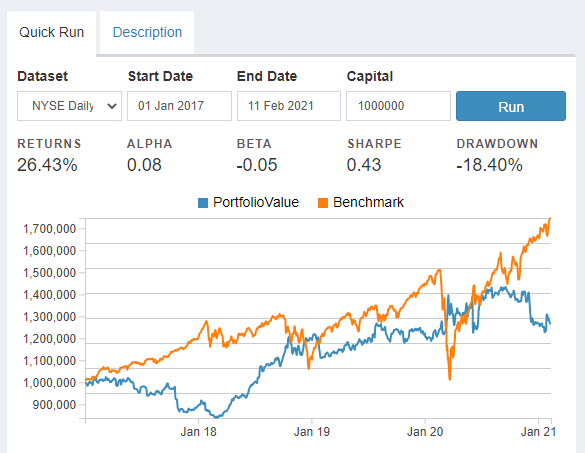
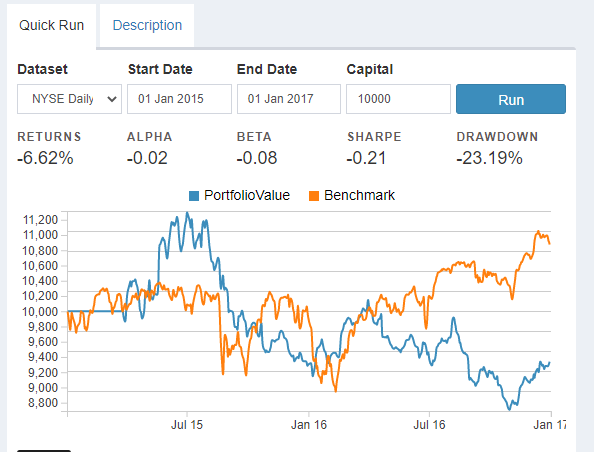
Added a readme explaining the test.

Changed region(s): [[0.0308, 0.031, 0.9846, 0.9602], [0.0308, 0.031, 0.1538, 0.0929], [0.0308, 0.9912, 0.1231, 1.0]]

diff --git a/zscore_mavg_diff/README.md b/zscore_mavg_diff/README.md
@@ -1,0 +1,170 @@
+# Z-score based trading strategy
+
+*Note: The notebook used in this project contains the script used for backtesting. This is meant for reference as in the current state, the notebook is not setup to use the dependancies.*
+
+## Introduction
+It seems likely that two ETF's in the same market offering the same service should have a correlation of market prices.  For this example, I have selected American Airlines (AAL) and United Airlines (UAL) to be compared. Can we watch one of these ETF's change in value and capitalize on their correlated counterpart?
+
+
+### Hypothesis
+1. Are these two assets correlated
+2. If correlated to a reasonable level, can we assume a trend in one asset based on recent changes in price of the other?
+
+## Testing
+
+I have decided to use data from years passed to avoid any current day bias that may be found in these ETF's.  This will also allow a check on the data from other peoples examples.  The time frame selected is January 1st, 2015 - January 1st, 2017.  Data was gathered from Yahoo Finance's historical prices for both assets.
+
+### 1. Finding Correlation
+
+After cleaning up the data (AAL had an additional row to UAL - Last row dropped), we see a correlation of 91.26%. A higher correlation would be ideal, however for testing purposes, this will suffice.
+```py
+np.corrcoef(american['High'], united['High'])
+
+"""
+RESULTS
+
+array([[1.        , 0.91261514],
+       [0.91261514, 1.        ]])
+"""
+```
+
+![AAL & UAL 2015-2017](https://github.com/StevenSigil/testing_finances/blob/main/zscore_mavg_diff/charts/correlation_checking_AAL_UAL.png)
+
+### 2. Finding the spread differential
+The diffential here is the main determinate of what action to take. When the result (after normalizing via a zscore) is > 1 standard deviation, we are to sell AAL. Same goes for the reverse.
+
+```py
+# Spread differential
+
+spread = american['Price'] - united['Price']
+spread.plot(label='Spread', figsize=(12,8), title='Spread Difference - AAL vs UAL')
+plt.axhline(spread.mean(), c='g', label='average')
+plt.legend()
+```
+
+![AAL & UAL Spread Differential plot](https://github.com/StevenSigil/testing_finances/blob/main/zscore_mavg_diff/charts/spread_difference_AAL_UAL.png)
+
+### 3. Calculating a rolling Z-score and finding the standard deviation
+
+Since the intent is to test the theory on data, as if it were live, it is necessary to use a rolling score to interpret the data as if it were live and unknown.
+
+```py
+# Calculating a rolling zscore
+
+spread_ma1 = spread.rolling(1).mean()
+spread_ma30 = spread.rolling(30).mean()
+std_30 = spread.rolling(30).std()
+
+zscore_30_1 = (spread_ma1 - spread_ma30) / std_30
+
+"""
+RESULT
+
+Date
+2015-01-02         NaN
+2015-01-05         NaN
+2015-01-06         NaN
+2015-01-07         NaN
+2015-01-08         NaN
+                ...   
+2016-12-23   -1.176253
+2016-12-27   -1.086287
+2016-12-28   -0.954296
+2016-12-29   -0.994798
+2016-12-30   -1.043309
+Name: Price, Length: 505, dtype: float64
+"""
+```
+
+Plotting the results to check the +/- 1std is sufficient
+
+![Spread difference after calculating a rolling score](https://github.com/StevenSigil/testing_finances/blob/main/zscore_mavg_diff/charts/rolling_30d_zscore.png)
+
+## 4. Backtest data to prove/disprove original hypothesis
+
+To test the theory, I decided to use [Blueshift](https://blueshift.quantinsti.com/) - the supposed replacement for Quantopian's public platform.  Like Quantopian, they use the [zipline](https://www.zipline.io/) package (some of the package) to perform analysis/backtesting.
+
+Below is the script I came up with to test the theory. It follows the same basic setup as the above data analysis before defining the trading logic.
+
+```py
+"""
+Strategy based on the 30D rolling ZScore
+"""
+
+# Zipline
+from zipline.api import(    symbol,
+                            order_target_percent,
+                            schedule_function,
+                            date_rules,
+                            time_rules,
+                       )
+import numpy as np
+import pandas as pd
+
+
+# Initialize - Schedule funciton 
+def initialize(context):
+    schedule_function(check_pairs, date_rules.every_day(), time_rules.market_close(minutes=60))
+
+    context.aal = symbol('AAL')
+    context.ual = symbol('UAL')
+
+    context.long_on_spread = False
+    context.shorting_spread = False
+
+# Check pairs
+def check_pairs(context, data):
+
+    aal = context.aal
+    ual = context.ual
+
+    prices = data.history([aal, ual], 'price', 30, '1d')
+    short_prices = prices.iloc[-1:]
+
+    # Spread
+    ma_30 = np.mean(prices[aal] - prices[ual])
+    std_30 = np.std(prices[aal] - prices[ual])
+
+    ma_1 = np.mean(short_prices[aal] - short_prices[ual])
+
+    if std_30 > 0:
+        zscore = (ma_1 - ma_30)/std_30
+
+        if zscore < 1.0 and not context.shorting_spread:
+            # Short UAL - Long AAL
+            try:
+                order_target_percent(aal, -0.5)
+                order_target_percent(ual, 0.5)
+                context.shorting_spread = True
+                context.long_on_spread = False
+            except:
+                pass
+        elif zscore > 1.0 and not context.long_on_spread:
+            # Short AAL - Long UAL
+            try:
+                order_target_percent(aal, 0.5)
+                order_target_percent(ual, -0.5)
+                context.shorting_spread = False
+                context.long_on_spread = True
+            except:
+                pass
+        elif abs(zscore) < 0.1:
+            # Exit positions
+            order_target_percent(aal, 0)
+            order_target_percent(ual, 0)
+            context.shorting_spread = False
+            context.long_on_spread = False
+
+```
+
+## Results
+
+The following is the outcome of the aforementioned potential strategy compared to the Benchmark results provided by Blueshift.  This was set up to run through the same dates as described above, with a $10,000 starting capitol.
+
+![Results of theory compared to Blueshift's benchmark](https://github.com/StevenSigil/testing_finances/blob/main/zscore_mavg_diff/charts/zscore%20results.png)
+
+As you can see, the strategy did not work as expected. Yielding a return of -6.62% on the original investment.  
+
+The biggest cause for this difference appears to happen tword the latter half of the test. Looking back at the first plot of the prices for both assets, you can see there is a massive difference in price. 
+
+At the end, it seems the results aren't conclusive to proving/disproving the strategy. Instead, what we did find out, is a correlation of less-than 92% is not adequate for this theory.
